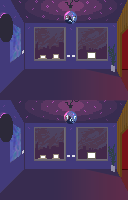
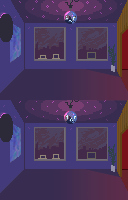
Tested special effects for screens & placards

diff --git a/public/clientMod.js b/public/clientMod.js
@@ -254,6 +254,153 @@ function firstFloorDrawSprite(playerId, sprite, drawingFunction) {
 
 // BRENDAN STUFF START
 
+var curationData = {
+    rooms: {
+        oldspaceMain: {
+            right: {
+                thingId: "Right",
+                gradientPath:"assets/monitorGradientGlow1.png"
+            },
+            left: {
+                thingId: "Left",
+                gradientPath:"assets/monitorGradientGlow1.png"
+            },
+            projector: {
+                thingId: "Projector",
+                gradientPath:"assets/monitorGradientGlow1.png"
+            },
+        }
+    }
+}
+
+function oldspaceMainEnter(playerId, roomId)
+{
+	const roomCurationData = curationData.rooms[roomId];
+	
+	if (playerId == me.id) {
+		for (var m in roomCurationData) {
+		    const cd = roomCurationData[m];
+			cd.gradientImg = loadImage(cd.gradientPath);
+		}
+    }
+}
+
+function oldspaceMainUpdate()
+{
+	const roomSprites = getSprites();
+	
+	/*
+	const tintGradient = roomSprites
+		.filter((sprite) => ensure(sprite.id, '').includes('tintGradient'))
+		.find((s) => true);
+	
+	const tintImage = tintGradient.animation.getFrameImage();
+	
+	const tintColor = tintImage.get(0,0);
+	*/
+	
+	const roomId = "oldspaceMain";
+	
+	const roomCurationData = curationData.rooms[roomId];
+	
+	var closestCuration = null;
+	closestDistance = 0.0;
+	for (var roomName in roomCurationData) {
+	    const cd = roomCurationData[roomName];
+	    
+		var marker = ROOMS.oldspaceMain.things["curation" + cd.thingId + "Screen"];
+		if(marker == null) {
+            marker = ROOMS.oldspaceMain.things["curation" + cd.thingId + "Placard"];
+        }
+		
+		if(marker != null) {
+            const pcPosition = marker.command.point;
+            const distance = distanceFormula(pcPosition[0] * ASSET_SCALE, pcPosition[1] * ASSET_SCALE, me.x, me.y);
+
+            if(closestCuration == null || distance < closestDistance) {
+                closestCuration = cd;
+                closestDistance = distance;
+            }
+        }
+	}
+	
+	var highlightedCuration = null;
+	
+	if(closestDistance < 50) {
+		highlightedCuration = closestCuration;
+	}
+	
+	for (var roomName in roomCurationData)
+	{
+        const cd = roomCurationData[roomName];
+
+        const screen = ROOMS.oldspaceMain.things["curation" + cd.thingId + "Screen"];
+        if(screen != null) {
+            screen.visible = true;
+        }
+        
+        const placard = ROOMS.oldspaceMain.things["curation" + cd.thingId + "Placard"];
+        if(placard != null) {
+            placard.visible = true;
+        }
+        
+		const isHighlighted = cd === highlightedCuration;
+		
+		if(isHighlighted)
+		{
+			const l = cd.gradientImg.width * cd.gradientImg.height;
+
+            if(screen != null) {
+                if(screen.index == null) {
+                    screen.index = 0;
+                } else {
+                    screen.index = (screen.index + 1) % l;
+                }
+
+                const x = screen.index % cd.gradientImg.width;
+                const y = Math.floor(screen.index / cd.gradientImg.width);
+                const pixel = cd.gradientImg.get(x, y);
+
+                screen.tint = color(pixel[0], pixel[1], pixel[2], pixel[3]);
+            }
+
+            if(placard != null) {
+                if(placard.index == null) {
+                    placard.index = 1;
+                } else {
+                    placard.index = (placard.index + 1) % l;
+                }
+
+                const x = placard.index % cd.gradientImg.width;
+                const y = Math.floor(placard.index / cd.gradientImg.width);
+                const pixel = cd.gradientImg.get(x, y);
+
+                placard.tint = color(pixel[0], pixel[1], pixel[2], pixel[3]);
+            }
+		}
+		else
+		{
+            if(screen != null) {
+                screen.tint = "#ffffffff";
+            }
+
+            if(placard != null) {
+                placard.tint = "#e2e1e8ff";
+            }
+		}
+	}
+}
+
+function oldspaceMainDrawThing(thingId, sprite, drawingFunction)
+{
+    const thing = ROOMS.oldspaceMain.things[thingId];
+	if(thing.tint != null) {
+		tint(thing.tint);
+	}
+	
+	drawingFunction();
+}
+
 function oldspaceOutsideEnter(playerId, roomId) {
     if (playerId == me.id) {
 		var p = players[playerId];

diff --git a/data.js b/data.js
@@ -98,7 +98,7 @@ module.exports.ROOMS = {
     oldspaceMain: {
         bg: "room_oldspace_anim_main.png",
         frames: 2,
-        frameDelay: 30,
+        frameDelay: 60,
         avatarScale: 2,
         tint: "#ffffff",
         pageBg: "#292929",
@@ -109,6 +109,16 @@ module.exports.ROOMS = {
             // exits
             hff00ea: { cmd: "enter", room: "oldspaceLounge", label: "Lounge", point: [125, 79], enterPoint: [7, 80], obstacle: false },
         },
+		things: {
+			curationRightScreen: { file: "screenLarge.png", frames: 1, position: [88, 53], visible:false, label: "A game", command: { cmd: "text", txt: "The gameplay fills your senses . . .", align: "left", lines: 4, url: "https://trasevol-dog.itch.io/embrace", point: [91, 71] } },
+			curationRightPlacard: { file: "placardStraightOnWhite.png", frames: 1, position: [72, 55], visible:false, label: "A placard", command: { cmd: "text", txt: "Ayyyyy", align: "left", lines: 4, label: "A huggy game", point: [73, 71] } },
+
+            curationLeftScreen: { file: "screenMedium.png", frames: 1, position: [54, 55], visible:false, label: "A game", command: { cmd: "text", txt: "The gameplay fills your senses . . .", align: "left", lines: 4, url: "https://trasevol-dog.itch.io/embrace", point: [56, 71] } },
+            curationLeftPlacard: { file: "placardStraightOnWhite.png", frames: 1, position: [67, 55], visible:false, label: "A placard", command: { cmd: "text", txt: "Ayyyyy", align: "left", lines: 4, label: "A huggy game", point: [68, 71] } },
+
+            curationProjectorScreen: { file: "screenProjector.png", frames: 1, position: [10, 21], visible:false, label: "A game", command: { cmd: "text", txt: "The gameplay fills your senses . . .", align: "left", lines: 4, url: "https://trasevol-dog.itch.io/embrace", point: [25, 78] } },
+            curationProjectorPlacard: { file: "placardQuarterTurnRightWhite.png", frames: 1, position: [22, 50], visible:false, label: "A placard", command: { cmd: "text", txt: "Ayyyyy", align: "left", lines: 4, label: "A huggy game", point: [25, 72] } },
+		}
     },
 
     oldspaceOutside: {

diff --git a/public/client.js b/public/client.js
@@ -765,8 +765,8 @@ function newGame() {
 
                             var thing = ROOMS[p.room].things[tId];
 
-                            createThing(thing, tId);
-
+                            const newSprite = createThing(thing, tId);
+							newSprite.roomId = p.room;
                         }//
 
 
@@ -1079,7 +1079,8 @@ function newGame() {
             print("Change property " + t.property + " of " + t.thingId + " in room " + t.room + " to " + t.value);
 
             //recreate it
-            createThing(dataThing, t.thingId);
+			const newSprite = createThing(dataThing, t.thingId);
+			newSprite.roomId = t.room;
         }
         else {
             //print("Warning: I can't find " + t.thingId + " in room " + t.room);
@@ -2409,6 +2410,25 @@ function createThing(thing, id) {
 
     newSprite.scale = ASSET_SCALE;
 
+	newSprite.originalDraw = newSprite.draw;
+    newSprite.draw = function () {
+		const roomId = newSprite.roomId;
+		
+		if (!thing.ignore) {
+			if (thing.transparent)
+				tint(255, 100);
+			
+			if(roomId && window[roomId + "DrawThing"] != null) {
+				window[roomId + "DrawThing"](id, thing, newSprite.originalDraw);
+			}
+			else {
+				newSprite.originalDraw();
+			}
+			if (thing.transparent)
+				noTint();
+		}
+	};
+	
     if (thing.visible != null) {
         newSprite.visible = thing.visible;
     }
